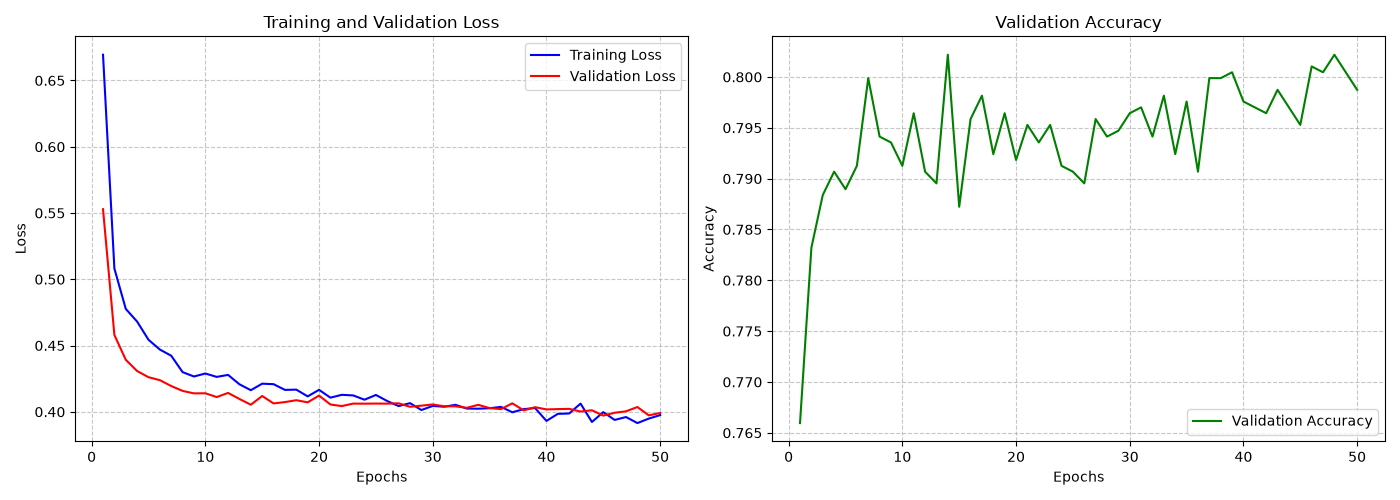
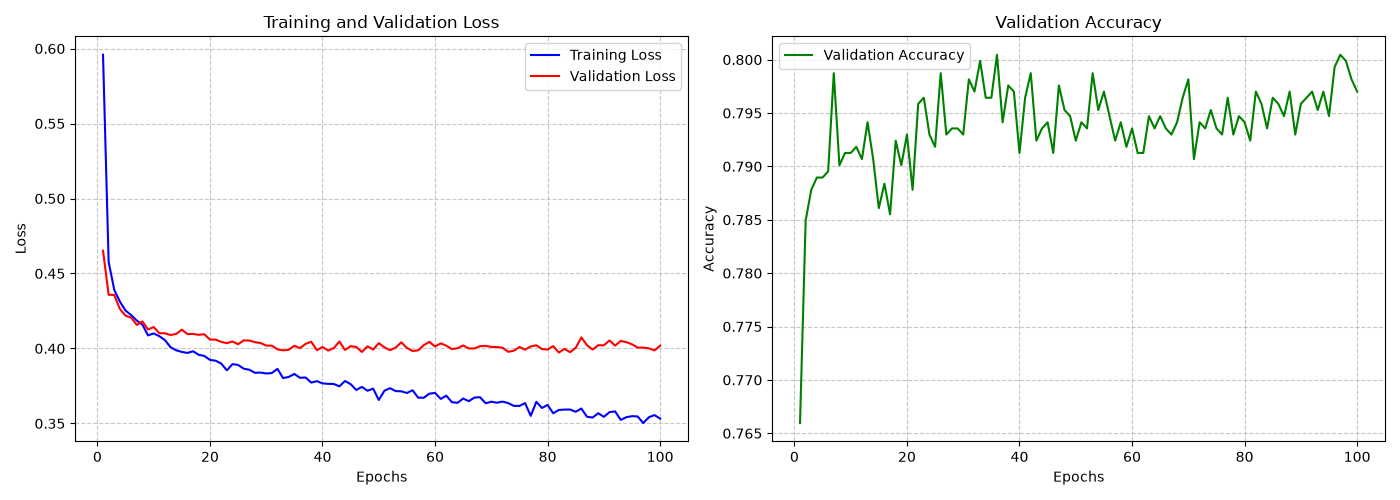
Last training metrics

diff --git a/src/models.py b/src/models.py
@@ -1,5 +1,5 @@
-import torch
 import torch.nn as nn
+from torchinfo import summary
 
 class SpacechipTitanicMLP(nn.Module):
     def __init__(self, input_dim):
@@ -20,3 +20,7 @@ class SpacechipTitanicMLP(nn.Module):
 
     def forward(self, x):
         return self.network(x)
+
+if __name__ == '__main__':
+    model = SpacechipTitanicMLP(29)
+    summary(model, input_size=(256,29))

diff --git a/src/train.py b/src/train.py
@@ -54,7 +54,7 @@ if __name__ == '__main__':
     criterion = nn.BCELoss().to(device)
     optimizer = optim.Adam(model.parameters(), lr=0.001)
 
-    epochs = 50
+    epochs = 100
     best_val_loss = float('inf')
     train_avg_losses = []
     val_avg_losses = []
